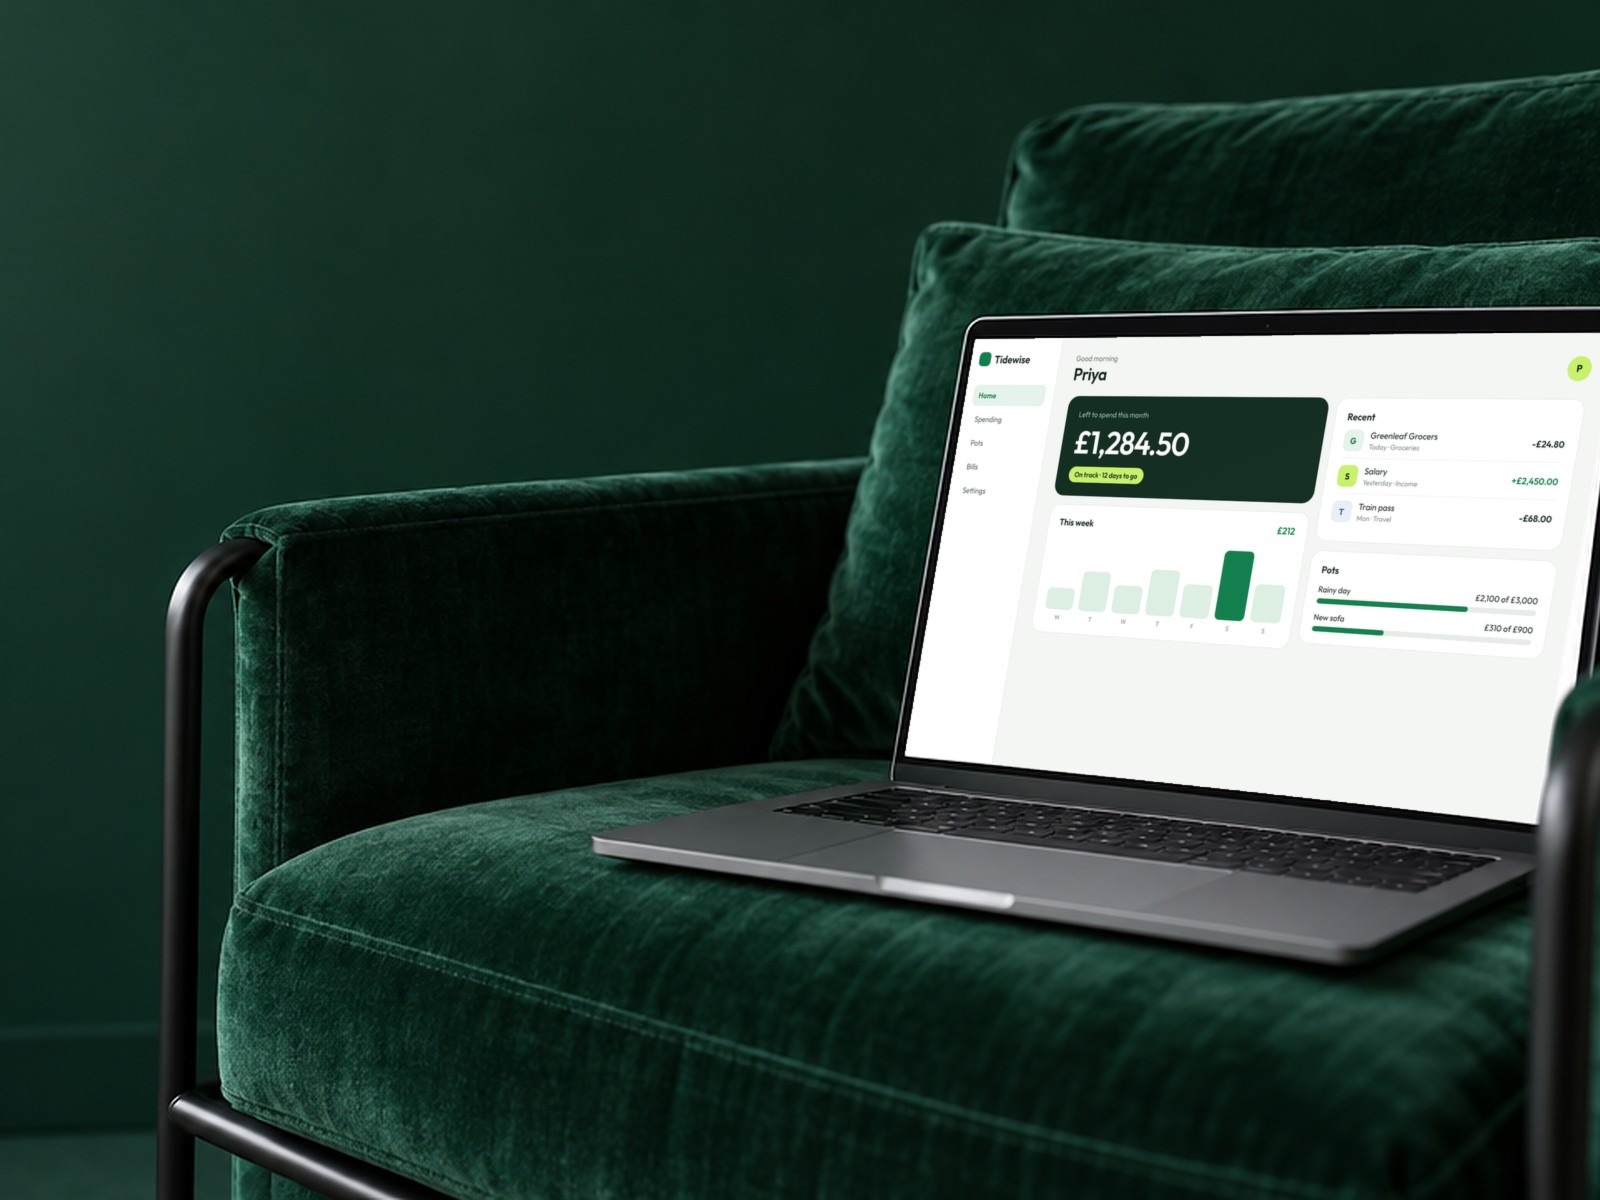
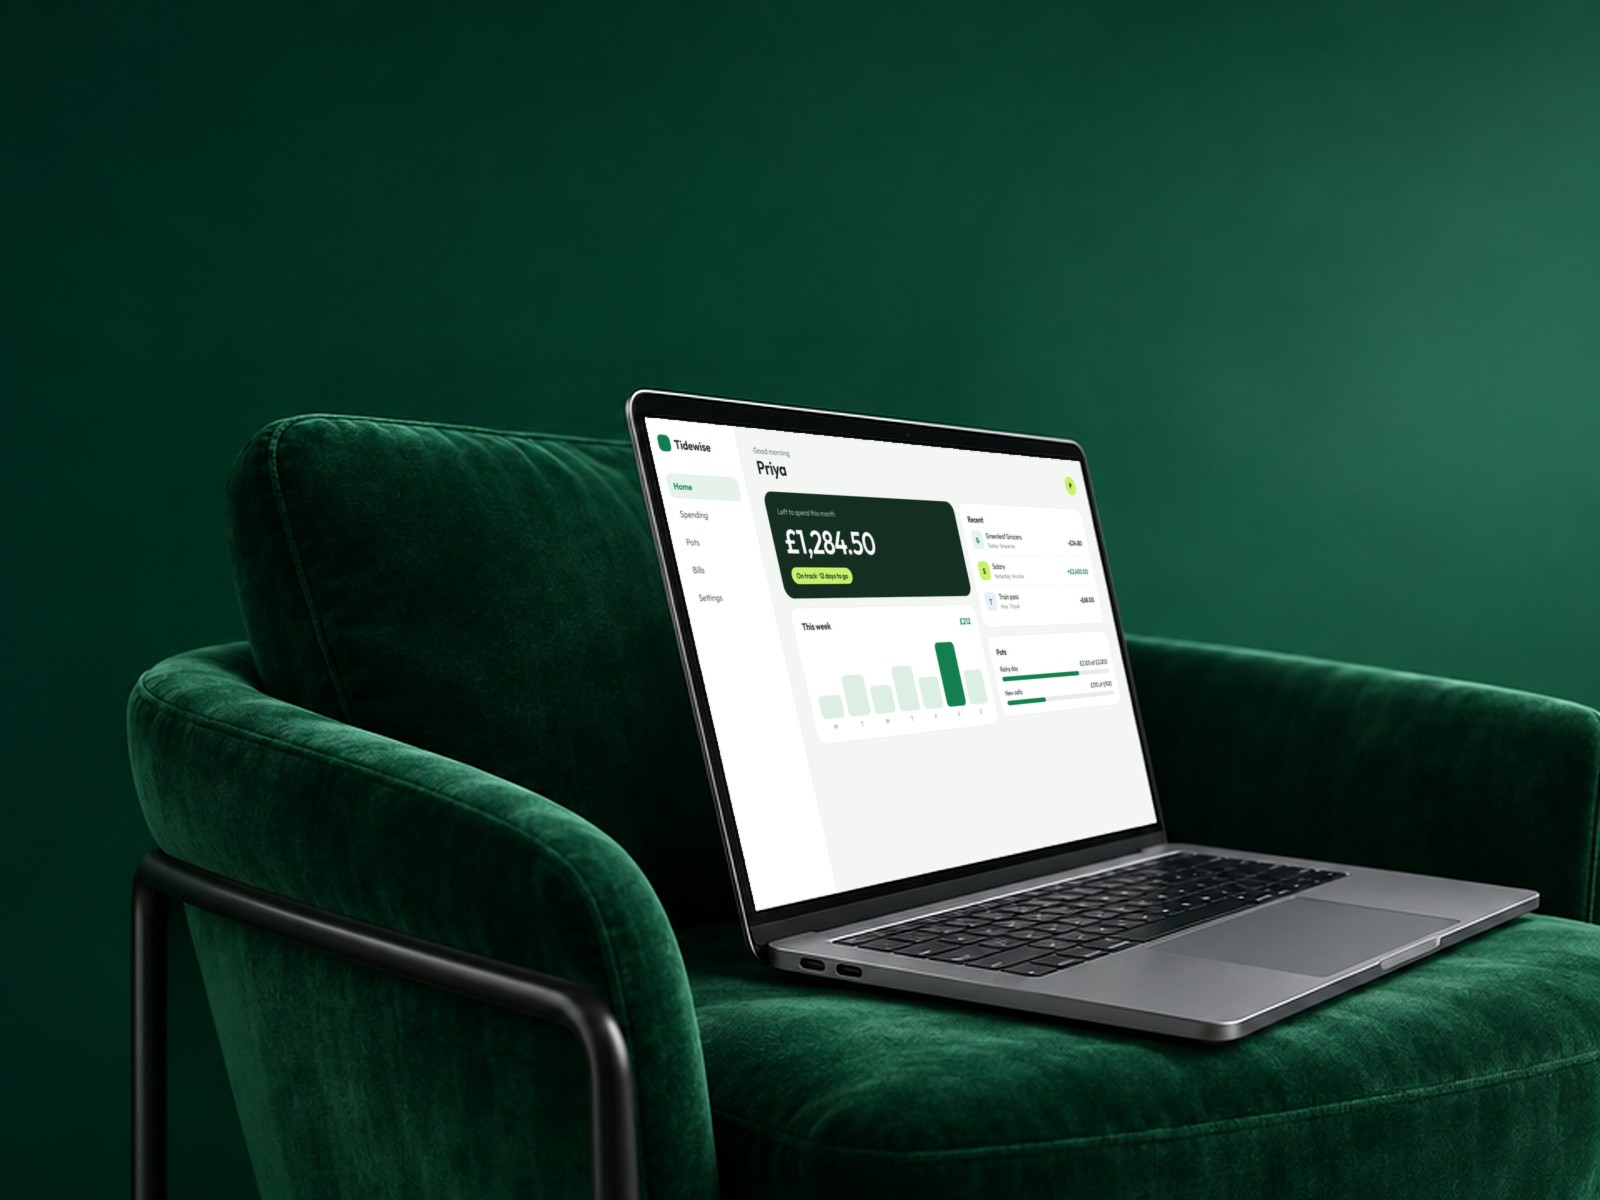
Product design: laptop turned the other way, hand-held modern iPhone
Claude-Session: https://claude.ai/code/session_011BdSE2fEeiEv9ZgoYmWAPn

diff --git a/src/content/seed-data.ts b/src/content/seed-data.ts
@@ -258,9 +258,9 @@ export const SERVICES: Service[] = [
       ["Designer-led AI", "AI speeds up research, flows and screens. Our designers make every decision count."],
     ]),
     offerings: cards("ai-product-design", [
-      ["Product design", "New SaaS, web and mobile products, from flows to polished screens.", "tile-product.jpg", "A laptop on an emerald green velvet armchair showing a money app dashboard: £1,284.50 left to spend, this week and recent payments"],
+      ["Product design", "New SaaS, web and mobile products, from flows to polished screens.", "tile-product.jpg", "A laptop on an emerald green velvet armchair, turned to the right, showing a money app dashboard: £1,284.50 left to spend"],
       ["UX audits", "We find where people get stuck and rank the fixes.", "tile-audit.jpg", "A laptop on a navy velvet sofa showing a cluttered banking dashboard, with numbered pins on its three balances and its loud advert"],
-      ["Redesign and iteration", "Live products made simpler, one release at a time.", "tile-redesign.jpg", "A hand holding a phone against warm wood panelling, showing the redesigned money app: £1,284.50 left to spend"],
+      ["Redesign and iteration", "Live products made simpler, one release at a time.", "tile-redesign.jpg", "A hand holding an iPhone against warm wood panelling, showing the redesigned money app: £1,284.50 left to spend"],
       ["Prototypes and validation", "Clickable prototypes to test ideas before you build.", "tile-prototype.jpg", "An iPhone lying on sage green linen in dappled leaf shadow, showing a prototype screen: What are you saving for?"],
       ["Design systems", "Components, colours and rules that keep every screen consistent.", "tile-system.jpg", "A large Continue button selected as Button / Primary, a dark version below and four colour swatches, on green"],
       ["Developer-ready handoff", "Specs, assets and annotated screens your developers can build from.", "tile-handoff.jpg", "A laptop on a walnut desk in late sun beside a notebook, showing a balance card with spacing marks and a panel of sizes, colours and code"],
